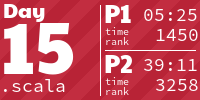
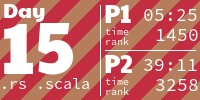
Day 15 2023

diff --git a/src/y2023/day15.rs b/src/y2023/day15.rs
@@ -1,0 +1,103 @@
+use std::{
+    array::from_fn,
+    io::{self, BufRead},
+};
+
+use itertools::Itertools;
+
+use crate::aoc::day::{DayParser, DaySolution};
+
+pub const TITLE: &str = "Lens Library";
+
+pub struct Solution {
+    sequence: Vec<String>,
+}
+
+impl DayParser for Solution {
+    fn with_input(input: &mut dyn BufRead) -> Self {
+        let input = io::read_to_string(input).unwrap();
+        let sequence = input.trim().split(',').map(|s| s.to_string()).collect_vec();
+        Self { sequence }
+    }
+}
+
+impl DaySolution for Solution {
+    fn part1(&self) -> String {
+        self.sequence
+            .iter()
+            .map(|s| hash(s) as u32)
+            .sum::<u32>()
+            .to_string()
+    }
+
+    fn part2(&self) -> String {
+        let mut boxes: [Vec<(&str, u8)>; 256] = from_fn(|_| Vec::new());
+
+        for s in &self.sequence {
+            match s.split_once('=') {
+                Some((key, value)) => {
+                    let hash = hash(key) as usize;
+                    if let Some(index) = boxes[hash].iter().position(|(k, _)| k == &key) {
+                        boxes[hash][index].1 = value.parse().unwrap();
+                    } else {
+                        boxes[hash].push((key, value.parse().unwrap()));
+                    }
+                }
+                None => {
+                    let key = &s[0..s.len() - 1];
+                    let hash = hash(key);
+                    if let Some(index) = boxes[hash as usize].iter().position(|(k, _)| k == &key) {
+                        boxes[hash as usize].remove(index);
+                    }
+                }
+            }
+        }
+
+        boxes
+            .into_iter()
+            .enumerate()
+            .flat_map(|(box_index, r#box)| {
+                r#box
+                    .into_iter()
+                    .enumerate()
+                    .map(move |(slot, (_, v))| (box_index + 1) * (slot + 1) * v as usize)
+            })
+            .sum::<usize>()
+            .to_string()
+    }
+}
+
+fn hash(s: &str) -> u8 {
+    s.chars()
+        .fold(0, |hash, c| hash.wrapping_add(c as u8).wrapping_mul(17))
+}
+
+#[cfg(test)]
+mod tests {
+    use super::*;
+    use crate::input;
+
+    #[test]
+    fn test_part1_example() {
+        let solution = Solution::with_input(input!(example));
+        assert_eq!(solution.part1(), "1320");
+    }
+
+    #[test]
+    fn test_part1_input() {
+        let solution = Solution::with_input(input!(input));
+        assert_eq!(solution.part1(), "516657");
+    }
+
+    #[test]
+    fn test_part2_example() {
+        let solution = Solution::with_input(input!(example));
+        assert_eq!(solution.part2(), "145");
+    }
+
+    #[test]
+    fn test_part2_input() {
+        let solution = Solution::with_input(input!(input));
+        assert_eq!(solution.part2(), "210906");
+    }
+}

diff --git a/benches/solutions.rs b/benches/solutions.rs
@@ -63,5 +63,5 @@ benchmarks!(
     (Benchmark2016 / y2016: day1),
     (Benchmark2021 / y2021: day1),
     (Benchmark2022 / y2022: day1, day3, day4, day6, day10, day13, day16, day17, day23, day24, day25),
-    (Benchmark2023 / y2023: day1, day2, day3, day4, day6, day7, day8, day9, day12, day13),
+    (Benchmark2023 / y2023: day1, day2, day3, day4, day6, day7, day8, day9, day12, day13, day15),
 );

diff --git a/src/lib.rs b/src/lib.rs
@@ -62,5 +62,5 @@ aoc_solutions!(
     y2016: day1;
     y2021: day1;
     y2022: day1, day3, day4, day6, day10, day13, day16, day17, day23, day24, day25;
-    y2023: day1, day2, day3, day4, day6, day7, day8, day9, day12, day13;
+    y2023: day1, day2, day3, day4, day6, day7, day8, day9, day12, day13, day15;
 );

diff --git a/README.md b/README.md
@@ -47,7 +47,7 @@ Rust solutions for [Advent of Code](http://adventofcode.com/). My scala solution
 <a href="https://github.com/SuperTux88/adventofcode/blob/main/src/main/scala/adventofcode/y2023/Day14.scala">
   <img src="AoCTiles/2023/14.png" width="161px">
 </a>
-<a href="https://github.com/SuperTux88/adventofcode/blob/main/src/main/scala/adventofcode/y2023/Day15.scala">
+<a href="src/y2023/day15.rs">
   <img src="AoCTiles/2023/15.png" width="161px">
 </a>
 <a href="https://github.com/SuperTux88/adventofcode/blob/main/src/main/scala/adventofcode/y2023/Day16.scala">
